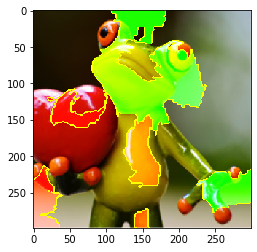
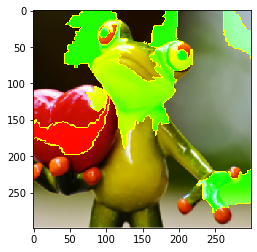
m

diff --git a/test.py b/test.py
@@ -52,7 +52,7 @@ explainer = lime_image.LimeImageExplainer()#kernel_width=0.1
 # Hide color is the color for a superpixel turned OFF. Alternatively, if it is NONE, the superpixel will be replaced by the average of its pixels
 explanation = explainer.explain_instance(images[0], inet_model.predict,
                                          top_labels=5, hide_color=0, 
-                                         num_samples=1000,model_regressor='Bay_non_info_prior')
+                                         num_samples=1000,model_regressor='non_Bay')
 
 #temp, mask = explanation.get_image_and_mask(explanation.top_labels[0], positive_only=True, num_features=5, hide_rest=True)
 #plt.imshow(mark_boundaries(temp / 2 + 0.5, mask))
